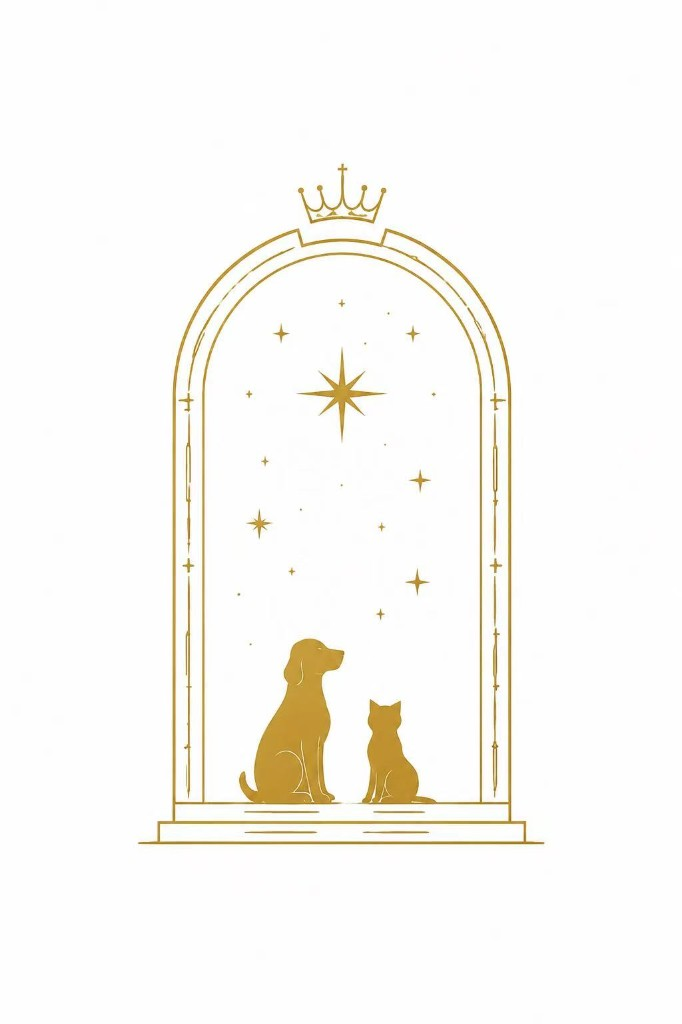
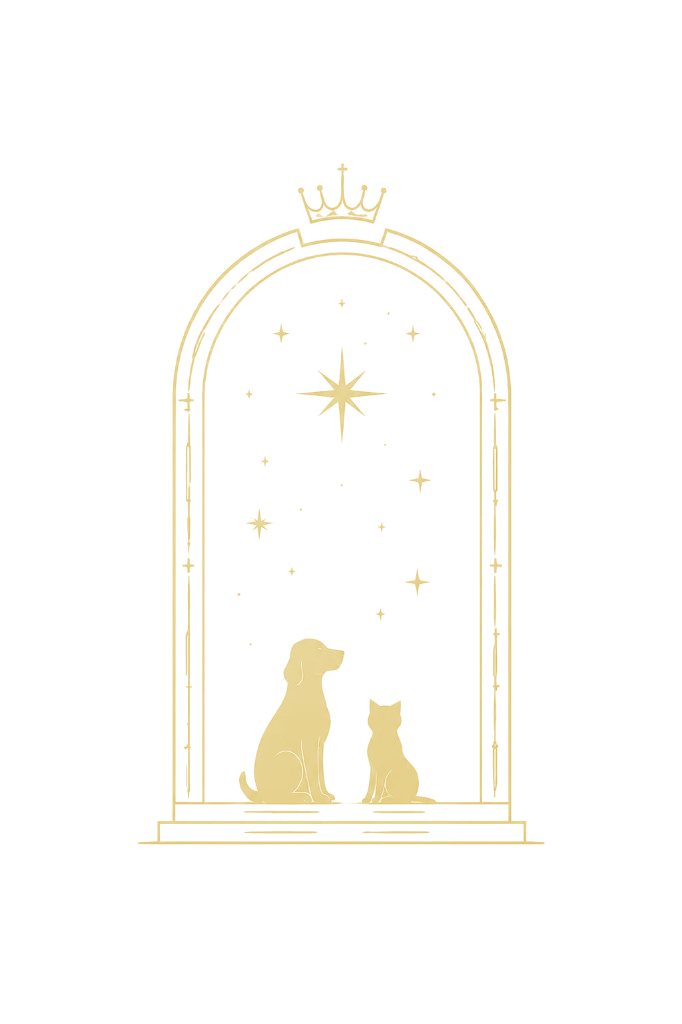
Blend Kingdom Gate emblem as transparent gold foil on passport cover.

diff --git a/src/components/PassportCover.tsx b/src/components/PassportCover.tsx
@@ -16,30 +16,35 @@ export function PassportCover({ passportNo }: PassportCoverProps) {
       <div className="pointer-events-none absolute inset-0 bg-[linear-gradient(165deg,rgba(255,255,255,0.04)_0%,transparent_38%,rgba(0,0,0,0.22)_100%)]" />
       <div className="pointer-events-none absolute inset-y-8 right-0 w-px bg-white/[0.06]" />
 
-      <header className="relative z-10 w-full">
+      <header className="relative z-10 w-full pt-1">
         <p className="passport-cover-gold passport-cover-label">
           PetLuma Kingdom
         </p>
       </header>
 
-      <div className="relative z-10 flex w-full flex-1 flex-col items-center justify-center py-4">
-        <div className="flex w-full max-w-[12.5rem] items-center justify-center px-3 py-2">
+      <div className="relative z-10 flex w-full flex-1 flex-col items-center justify-start pt-3">
+        <div
+          className="passport-cover-emblem"
+          role="img"
+          aria-label="PetLuma Kingdom Gate emblem"
+        >
           <img
             src={KINGDOM_GATE_EMBLEM_SRC}
-            alt="PetLuma Kingdom Gate emblem"
-            width={200}
-            height={300}
-            className="h-auto max-h-[13.5rem] w-full object-contain object-center mix-blend-multiply"
+            alt=""
+            width={220}
+            height={330}
+            className="passport-cover-emblem__art"
             draggable={false}
           />
         </div>
-        <h2 className="passport-cover-gold passport-cover-title mt-7">
+
+        <h2 className="passport-cover-gold passport-cover-title mt-8">
           <span className="block">PetLuma</span>
           <span className="passport-cover-subtitle mt-2 block">Passport</span>
         </h2>
       </div>
 
-      <footer className="relative z-10 flex w-full flex-col items-center gap-5">
+      <footer className="relative z-10 flex w-full flex-col items-center gap-5 pb-1">
         <p className="passport-cover-gold passport-cover-label">
           Official Companion Document
         </p>
@@ -58,7 +63,7 @@ function PassportChipIcon() {
   return (
     <svg
       viewBox="0 0 48 36"
-      className="h-7 w-9 text-[#b89558]/75"
+      className="h-7 w-9 text-[#d4af37]/70"
       fill="none"
       xmlns="http://www.w3.org/2000/svg"
       aria-hidden

diff --git a/src/app/globals.css b/src/app/globals.css
@@ -59,10 +59,32 @@ textarea {
 }
 
 .passport-cover-gold {
-  color: #b89558;
+  color: #d4af37;
   text-shadow:
     0 1px 0 rgba(0, 0, 0, 0.42),
     0 -0.5px 0 rgba(255, 236, 200, 0.1);
+}
+
+.passport-cover-emblem {
+  display: flex;
+  align-items: center;
+  justify-content: center;
+  width: min(12.5rem, 82%);
+  max-height: 15rem;
+  margin-inline: auto;
+  background: transparent;
+}
+
+.passport-cover-emblem__art {
+  display: block;
+  width: 100%;
+  height: auto;
+  max-height: 15rem;
+  object-fit: contain;
+  object-position: center;
+  opacity: 0.94;
+  filter: drop-shadow(0 1px 0 rgba(0, 0, 0, 0.55))
+    drop-shadow(0 -0.5px 0 rgba(255, 228, 170, 0.16));
 }
 
 .passport-cover-label {